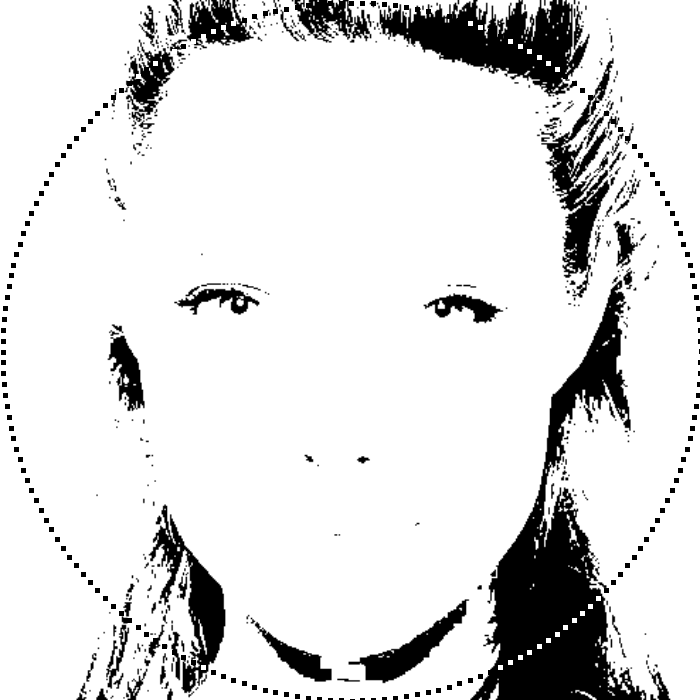
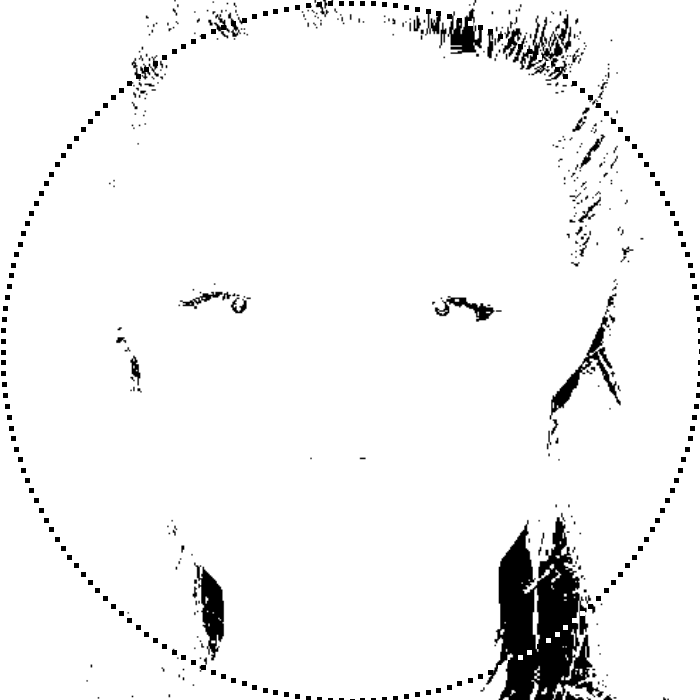
imagem inicial add

diff --git a/Projeto TCC/telas/app.py b/Projeto TCC/telas/app.py
@@ -30,7 +30,7 @@ class TelaPython():
         layout = [
           
             [sg.Text("Limiar Value: ", key="text")],
-            [sg.Slider(range=(0,255),default_value = 0, orientation='h', key="sliderLimiar",change_submits=True)],
+            [sg.Slider(range=(0,255),default_value = 80, orientation='h', key="sliderLimiar",change_submits=True)],
             [sg.Image(filename='', key='image')],
             [sg.Button('OK')]
             
@@ -44,7 +44,9 @@ class TelaPython():
         imagemPath = filedialog.askopenfilename()
         imagem = cv2.imread(imagemPath, 1)
         imagemBG = transformImageInBlackAndGray(imagem)
-    
+        imagem = cv2.threshold(imagemBG,80, 255, cv2.THRESH_BINARY)[1]
+        imgbytes = cv2.imencode('.png', imagem)[1].tobytes()  # ditto 
+        self.janela["image"].update(data=imgbytes)
         while True: 
             self.events,self.values = self.janela.Read()
            
@@ -58,7 +60,7 @@ class TelaPython():
                 self.janela["image"].update(data=imgbytes)
                
             if(self.events == 'OK'):
-                return imagem
+                return [imagem, imagemPath]
                
                 
                 

diff --git a/Projeto TCC/main.py b/Projeto TCC/main.py
@@ -153,7 +153,7 @@ def cutImage(imagem):
 # ===================================================== MAIN ============================================
 
 tela = app.TelaPython()
-img = tela.iniciar()
+[img, imagemPath] = tela.iniciar()
 
 
 
